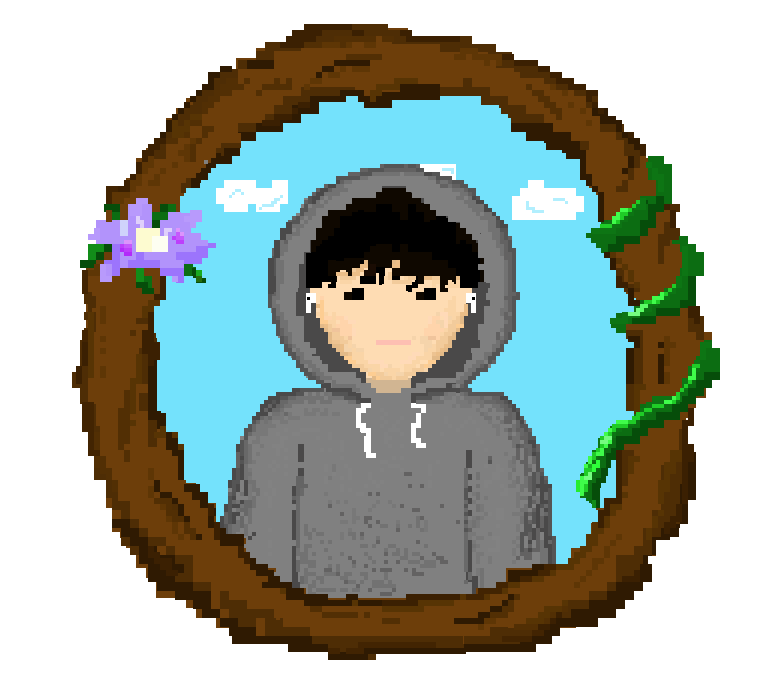
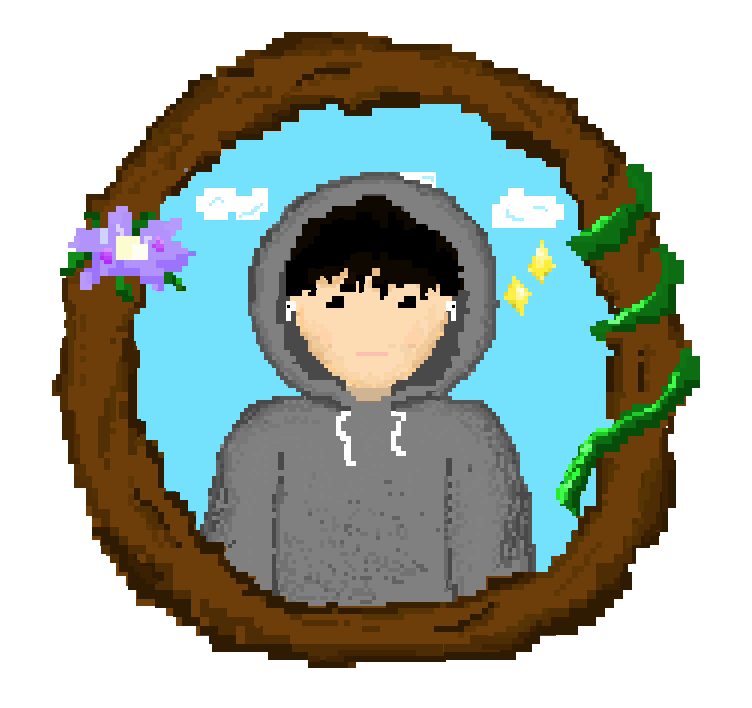
style: updated portrait slightly, added stars and made look les s angry

diff --git a/src/app/bio/page.tsx b/src/app/bio/page.tsx
@@ -37,7 +37,7 @@ export default function BioPage() {
           <motion.img
             src="/portrait.png"
             alt="portrait"
-            className="w-[330px] h-[290px]"
+            className="w-[330px] h-[300px]"
           ></motion.img>
           <p className="text-2xl text-center">Me!</p>
           <p className="text-xl text-center pt-5 underline">Quick Facts</p>
